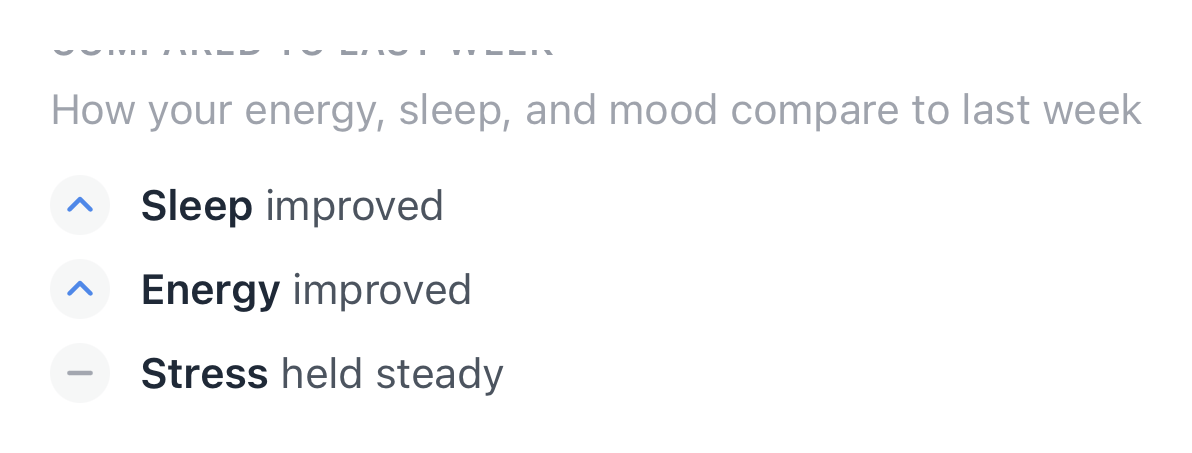
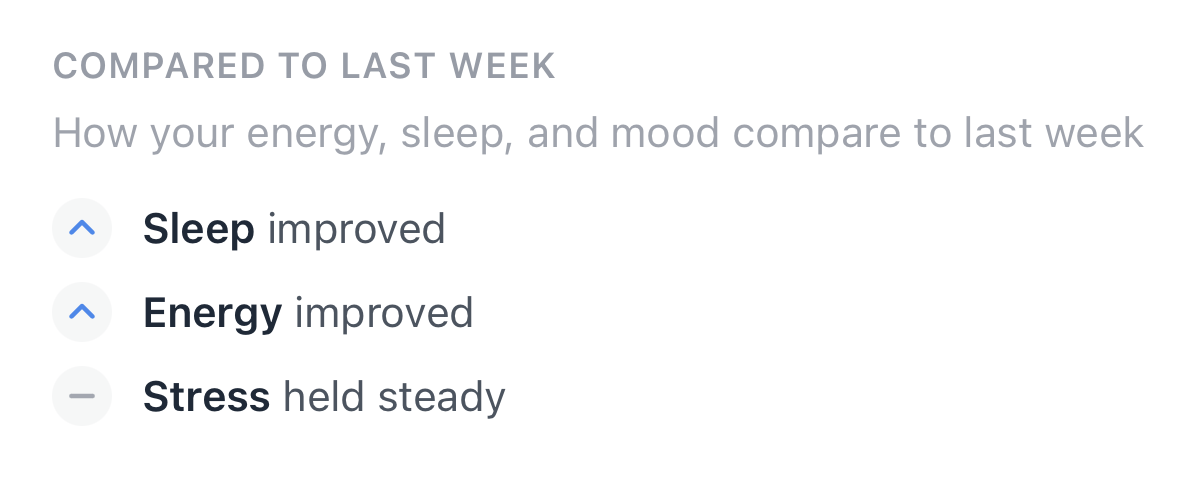
fix: recrop the week comparison card clear of the dynamic island

diff --git a/app/page.tsx b/app/page.tsx
@@ -223,7 +223,7 @@ export default function Home() {
           <div className="mt-12 grid items-center gap-8 sm:mt-14 lg:grid-cols-2 lg:gap-14">
             <Parallax speed={-14}>
               <Reveal>
-                <UiCard src="/ui/compared-week.png" alt="Sleep improved, energy improved, stress held steady" width={1192} height={453} tilt={-1.2} lift="lg" />
+                <UiCard src="/ui/compared-week.png" alt="Sleep improved, energy improved, stress held steady" width={1196} height={478} tilt={-1.2} lift="lg" />
               </Reveal>
             </Parallax>
             <Parallax speed={16}>
